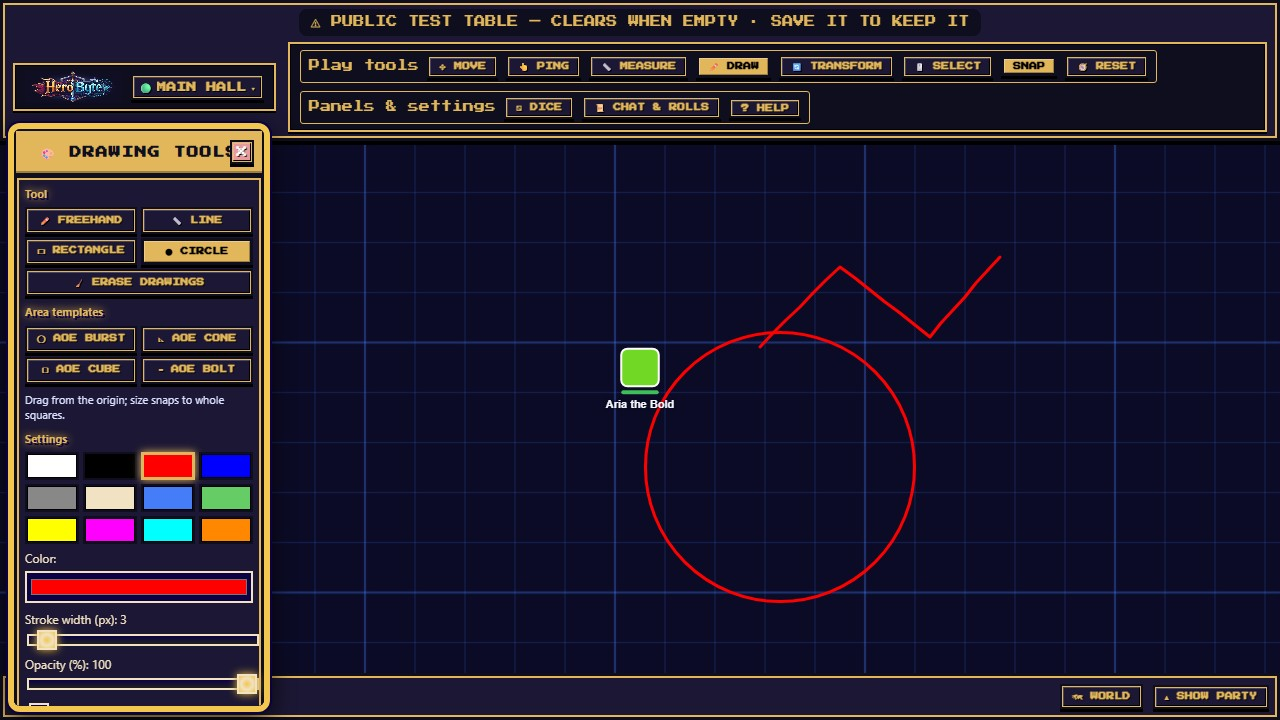
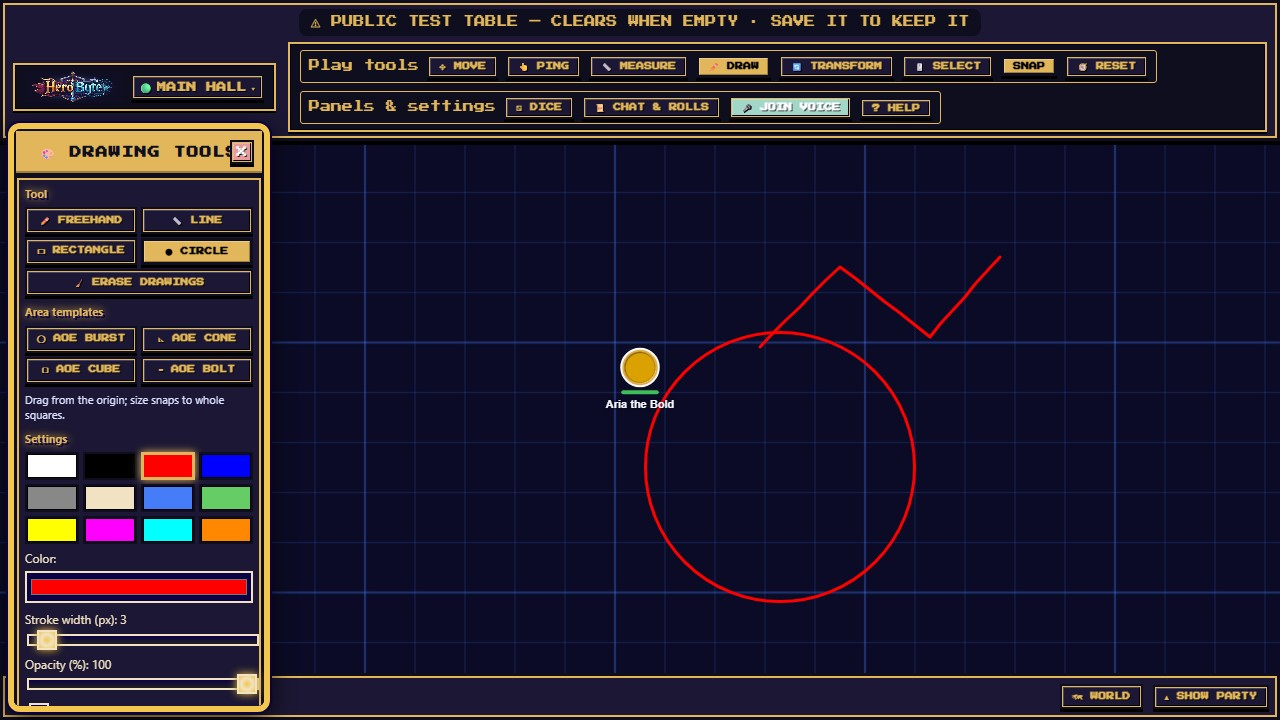
docs(frames): review round 1, what frames really do (C5a)
The guide said more than the code does in places: Grow out keeps the whole
picture only up to about Regular weight; only the plain rings take your
colour; a stretched token's frame turns oval; two rows happen at the
heaviest weights with grow in (planks and plates too, three at the top);
Gargantuan frames are a little over half as thick; Token frame… sits under
Token picture… and names the preset it was picked from; the window is "Art &
frame" and crops a framed token's picture round. The DM guide says an NPC's
frame needs a placed token, and that a restore leaves connected players'
tokens, frames included, as they are. The help's weight range is the
slider's. The player screenshots are re-shot: tokens now wear rings, and the
picture window has its Frame tab and button.

Changed region(s): [[0.5625, 0.1222, 0.75, 0.1833], [0.4688, 0.4889, 0.5312, 0.55]]

diff --git a/apps/client/src/features/help/characterHelpEntries.ts b/apps/client/src/features/help/characterHelpEntries.ts
@@ -37,5 +37,5 @@ export const PORTRAIT_ENTRY: HelpEntry = {
 export const TOKEN_FRAME_ENTRY: HelpEntry = {
   term: "Token frame",
   detail:
-    "⚙ → Token frame… picks the ring round your token on the map: Plain, Stone, Metal or Wood, its weight (Skinny to Slab), grow in or out, and your colour or one you pick; Use this frame sets it for everyone. New tokens start with a plain ring in your colour. On a phone it is in ⚙ EDIT.",
+    "⚙ → Token frame… picks the ring round your token on the map: Plain, Stone, Metal or Wood, its weight (a slider, with Skinny, Regular, Bold and Slab), grow in or out, and for the plain rings your colour or one you pick; Use this frame sets it for everyone. New tokens start with a plain ring in your colour. On a phone it is in ⚙ EDIT.",
 };

diff --git a/docs/user-guide/player-guide.md b/docs/user-guide/player-guide.md
@@ -58,23 +58,23 @@ One draggable window per character, in two halves — what the character is, and
 - **Character Name** and **Portrait**: the portrait is the picture on your card. Two ways to set it:
   - **⬆ UPLOAD IMAGE** sends a picture from your device to the table (camera roll on a phone): PNG, JPEG, GIF or WebP, up to 5 MB each. The table's image storage has a limit too ("The table's asset storage is full."), and on the Main Hall uploaded images are cleared once it has been empty for an hour.
   - **Paste a link** and press **Apply Portrait**. Links show only from **Imgur** (`i.imgur.com`) and **Discord** (`media.discordapp.net`); an `imgur.com` page or album link is turned into its image for you. A link from any other site shows nothing: download the picture and upload it instead.
-- **Token picture…** (once your character has a token on the map): the picture on your map token, separate from the portrait. It opens the token picture window (full screen on a phone, from **⚙ EDIT**):
+- **Token picture…** (once your character has a token on the map): the picture on your map token, separate from the portrait. It opens the **Art & frame** window on its **Picture** tab (full screen on a phone, from **⚙ EDIT**):
 
-  ![The token picture window: its zoom and backdrop controls, the previews on a dark map, a light map and fog, the offer to use the link as is, and Use this picture and Cancel at its foot](img/token-creator.jpg)
+  ![The Art & frame window on its Picture tab: its zoom and backdrop controls, round previews on a dark map, a light map and fog, the offer to use the link as is, and Use this picture and Cancel at its foot; beside it the settings window's Token picture and Token frame buttons](img/token-creator.jpg)
 
   - Bring a picture in: **⬆ Choose a file**, drop one on the window, paste one (**Ctrl+V**, **⌘V** on a Mac), or give a link and press **Load link**. Links work from **Imgur** (`i.imgur.com`) and **Discord** (`media.discordapp.net`), as for the portrait, and from pictures already on this HeroByte server; a link that loads nothing says so.
-  - Frame it inside the square, which is your token: drag to move it, zoom with the wheel, the **Zoom** slider or a pinch, and **⟳ Rotate** a quarter turn or **⇋ Flip** it. **Reset** puts it back. With the square selected, arrow keys nudge it and **+** / **−** zoom.
+  - Frame it inside your token's shape: a circle on a token that wears a frame (everything outside the circle is hidden on the map, and the frame covers its edge), the old rounded square on one that does not. Drag to move it, zoom with the wheel, the **Zoom** slider or a pinch, and **⟳ Rotate** a quarter turn or **⇋ Flip** it. **Reset** puts it back. With the picture selected, arrow keys nudge it and **+** / **−** zoom.
   - **Backdrop** fills whatever the picture leaves empty, such as transparent art or a picture zoomed out to fit: **Auto** takes the average colour of the solid pixels in the outermost ring, within a quarter of the way in, that has a real number of them (a photo's own edge, or for cut-out art the colour where the figure comes nearest the edge; dark parchment only when nothing solid is near the edge), or choose **Solid colour**, a **Gradient**, or **None** to keep it transparent.
   - The previews show the token on a dark map, a light map and under fog. **Use this picture** saves it to the table and sets it; **Cancel**, ✕ or **Esc** leave your token as it was, even while it is saving (once **Uploading…** has started, the picture still reaches the table's storage; if nothing uses it, it stops counting against the table's storage limit after about 15 minutes, for up to 5 MB of such pictures). While it saves, the framing holds still. The saved picture is a 512-pixel square (768 for a Huge or Gargantuan token at the time you save it), and it is an upload like any other: the table's storage limit applies, and on the Main Hall it is cleared with the other uploads. To change the framing later, choose the picture again.
   - For a picture that came from a link, **Use the link as is** sets the link itself (an `imgur.com` page link becomes its image link), unframed and with nothing saved to the table: the way out when the table's storage is full or the site (Discord, for one) does not let HeroByte copy its pictures. Editing the link field takes back an offer for a link that failed.
 
   **Clear picture** goes back to your token's colour: a disc inside its frame, or the old rounded square on a token with no frame.
-- **Token frame…** (beside **Token picture…**, once your character has a token): the ring drawn round your token on the map. Every new token starts with a **Plain ring** in your colour; tokens from before frames keep their old rounded square until you pick one. The button names the frame your token wears now. It opens the same window on its **Frame** tab (full screen on a phone, from **⚙ EDIT**):
-  - A shelf of frames by theme: **Plain** (plain ring, chamfered ring, shadow ring), **Stone** (red brick, castle stone, cave rubble, cracked stone, sandstone), **Metal** (blackened iron, riveted iron, rusted plate, steel, welded steel) and **Wood** (oak planks). Stones, planks and plates are built for your token's exact size, so they taper round the ring rather than being stretched, and every token on the table is lit by the same light from the top left, wherever it stands.
-  - **Weight**: a slider, or **Skinny**, **Regular**, **Bold** and **Slab**. A very thick stone frame lays its stones in two rows. Big tokens wear their frame a little thinner for their size.
-  - **Grow in** keeps the frame inside your token's square, eating into the picture's edge; **Grow out** keeps the whole picture and lets the frame stand outside the square (up to 15% of the token's width), casting a soft shadow on the map.
-  - **Your colour** tints frames that take a colour (the plain rings), and follows you when you change colour; or pick a colour of your own. Frames that glow (**Cracked stone**) add **Glow: your colour** or a glow colour, and **Glow strength**.
-  - The previews show the frame on a dark map, a light map and under fog, at card and token size. **Use this frame** sets it for everyone at the table; **No frame**, then **Use no frame**, takes it off; **Cancel**, ✕ or **Esc** change nothing. Changing the frame never touches your picture. A framed token is round: its selection outline follows the ring, and with **Grow out** you can grab it by the frame too.
+- **Token frame…** (under **Token picture…**, once your character has a token): the ring drawn round your token on the map. Every new token starts with a **Plain ring** in your colour; tokens from before frames keep their old rounded square until you pick one. The button names the frame your token's ring was picked from. It opens the same window on its **Frame** tab (full screen on a phone, from **⚙ EDIT**):
+  - A shelf of frames by theme: **Plain** (plain ring, chamfered ring, shadow ring), **Stone** (red brick, castle stone, cave rubble, cracked stone, sandstone), **Metal** (blackened iron, riveted iron, rusted plate, steel, welded steel) and **Wood** (oak planks). Stones, planks and plates are built for your token's size, so they taper round the ring, and every token on the table is lit by the same light from the top left, wherever it stands. Stretching a framed token in one direction with the transform handles stretches its frame into an oval too, and the oval turns with the token.
+  - **Weight**: a slider, or **Skinny**, **Regular**, **Bold** and **Slab**. At the heaviest weights with **Grow in**, stones, planks and plates are laid in two rows (three at the very top of the slider). Large and bigger tokens wear their frame thinner for their size (a Gargantuan's at a little over half).
+  - **Grow in** keeps the frame inside your token's square, eating into the picture's edge; **Grow out** lets the frame stand outside the square, up to 15% of the token's width on each side, casting a soft shadow on the map: up to about **Regular** weight it keeps the whole picture, and a heavier frame also reaches in over the picture's edge.
+  - **Your colour** tints the frames that take a colour (**Plain ring** and **Chamfered ring**), and follows you when you change colour; or pick a colour of your own. Every other frame has its own colours, and the tab says so instead. A frame that glows (**Cracked stone**) adds **Glow: your colour** (your character's colour, whatever colour the frame has) or a glow colour of your own, and **Glow strength**.
+  - The previews show the frame on a dark map, a light map and under fog, at card and token size. **Use this frame** sets it for everyone at the table; **No frame**, then **Use no frame**, takes it off; **Cancel**, ✕ or **Esc** change nothing. Changing the frame never touches your picture. A framed token is round unless you stretch it: its selection outline follows the ring, and with **Grow out** you can grab it by the frame too. Pasting or dropping a picture while the **Frame** tab is showing turns to the **Picture** tab.
 - **Colour** — your character's colour: it fills your token when it has no picture and tints its frame when the frame takes your colour; on a computer it colours your name on your card, your card's portrait while it has none, the ring on your Party row and your speaking glow; and it colours your pings, your chat and roll names and, on your own screen, everything you select. Where your colour would not read, names, ping labels and the glow use a lighter or darker shade of it. With two characters, pings, chat and roll names and selections use your first character's colour; each character's card and Party row keep its own. Others still see your colour on your card, your Party row and your chat and roll names while your token is out of their sight; a ping reaches other players only where they can see the spot (the DM sees every ping). Drag the handle across the colour window (hue runs left to right, light at the top) and let go to keep it, or tap one of the three dashed rings for a free colour in one go. **No two players share a colour** (a player's pick is checked whenever it changes; the DM's picks and table restores are not): the striped patches are the space around other players' colours, a drag or a tap into one stops at its nearest free edge and says whose it is (hover over a patch to see whose without picking), and the patches shrink as more players join. Your own other characters show as small squares and may share your colour; a new character starts in your colour. Arrow keys move the handle a step (**Shift** for five) and the colour is kept when you stop. If someone took the colour a moment before you, the table moves yours to the nearest free one and tells you. The DM's colour has no patches and blocks no one. On a phone it is in the row's **⚙ EDIT** sheet.
 - **Status Effects** — a checklist of 38 conditions (Prone, Poisoned, Blessed, Rage, Concentration…). They belong to this character only: your other character's row, card and token do not wear them. Up to three show as emoji medallions on the portrait and token; the rest roll up into a `+N` bubble.
 - **Initiative Status** — this character's current initiative, with a **🧹 CLEAR INITIATIVE** reset (on a phone too: **⚙ EDIT** on your row).

diff --git a/docs/user-guide/dm-guide.md b/docs/user-guide/dm-guide.md
@@ -61,7 +61,7 @@ To edit the table's map, use **🏗 Build map** in the header. If you have a 
   view — so reset the view or drag it across from there. Pressing it again replaces the old token with a fresh
   one at the corner (its position, size and sight radius reset; not while its token is locked — Place is off, or refused if the lock is on a map you travelled from, until you unlock it) rather than adding a second one.
 - **⚔ ENCOUNTER** opens [Encounter](#encounter), where initiative and the fight itself live (rolling the NPCs' missing initiative moved there).
-- NPCs appear in the Party as rows wearing their **Stance** — **Enemy**, **Neutral** or **Ally** (see [The Library](#the-library-monsters-and-townsfolk) below) — with HP, conditions and, once its token is placed, **🎯**; a hidden one reads **Hidden** on your screen. Select an NPC's row for its card: the **👁 eye button** there toggles whether players can see it at all — prep an ambush hidden, reveal it on the pounce. (Hidden NPCs stay visible to you.) Its **⚙** window has the same two halves as a player's: **Character** (portrait, **Token picture…** — the same picture window players use, its result kept on the NPC so later edits keep it — **Token frame…**, **Status Effects**, initiative, **Delete NPC**) and **Token settings** (place, size, lock). Conditions you set there show on the NPC's row, card and token for everyone who can see it. NPC tokens take frames too: a placed NPC starts with a **Plain ring** in its token's colour, **Token frame…** in its ⚙ window opens the same Frame tab players use (see the player guide's settings window), and placing it again keeps the frame you gave it.
+- NPCs appear in the Party as rows wearing their **Stance** — **Enemy**, **Neutral** or **Ally** (see [The Library](#the-library-monsters-and-townsfolk) below) — with HP, conditions and, once its token is placed, **🎯**; a hidden one reads **Hidden** on your screen. Select an NPC's row for its card: the **👁 eye button** there toggles whether players can see it at all — prep an ambush hidden, reveal it on the pounce. (Hidden NPCs stay visible to you.) Its **⚙** window has the same two halves as a player's: **Character** (portrait, **Token picture…** — the same picture window players use, its result kept on the NPC so later edits keep it — **Token frame…** (once its token is placed), **Status Effects**, initiative, **Delete NPC**) and **Token settings** (place, size, lock). Conditions you set there show on the NPC's row, card and token for everyone who can see it. NPC tokens take frames too: a placed NPC starts with a **Plain ring** in its token's colour, **Token frame…** in its ⚙ window opens the same Frame tab players use (see the player guide's settings window), and placing it again keeps the frame its token wore, stones and all, while that token is still on one of your maps.
 - **DELETE** removes the NPC and its token.
 
 ### Adding a pack at once
@@ -170,7 +170,7 @@ A backup is a file you keep. Three kinds exist and each picker names what it is 
 
 **Download table backup** downloads the entire table as one JSON file — tokens, characters (PCs _and_ NPCs), props, drawings, dice history, grid, fog state, the full live map with every terrain cell and door, and any uploaded images (inlined, up to 64 MB). The **Backup file name** field just names the file. Private dice rolls (**DM** or **ME**) and whispers are left out on purpose, so a backup never carries anyone's private messages — but it still holds secret doors, hidden NPCs and GM notes, so keep it to yourself.
 
-**Restore table backup…** restores one. Hand it an editable map or a character file and it is refused straight away, by name, with nothing loaded and no confirmation: the message says where that file belongs (a map goes to **Import editable map (.json)** under Maps → Map library, a character to **Load character…** in its ⚙ settings). Most files that are none of the three are refused as *not a table backup*, with a pointer to **Download table backup**; a file that looks half like a backup (it has a `snapshot`, `tokens` or `players`) still names the first part that is wrong. For a real backup, read the confirmation carefully: restoring **replaces the table for everyone connected**: the map, the NPCs, props, drawings and settings become the file's (a monster that is in both the table and the file stays where it stands now; one the file lacks goes, token and all). Everyone with a seat on the table's roster keeps their own characters and tokens as they are now, whether or not they are connected at the moment (a character of theirs that the file has and the table no longer does comes back), and nobody's DM status changes — who is the DM stays with the DM password, whatever the file says. What does come back as the file had it is each seat's own record: its name, portrait, HP and conditions. A table holds 500 characters: if the file's characters and the seated players' own would pass that together, the restore is refused whole and a message says how many characters the table would hold against the 500 (remove some absent players, or delete some of their characters, and try again). The restore's own message only ever says the backup was **sent**: a refusal arrives a moment later and says the table has not been changed.
+**Restore table backup…** restores one. Token frames come back exactly as saved, except on the tokens of players still connected: they keep their token as it is now, frame included. Hand it an editable map or a character file and it is refused straight away, by name, with nothing loaded and no confirmation: the message says where that file belongs (a map goes to **Import editable map (.json)** under Maps → Map library, a character to **Load character…** in its ⚙ settings). Most files that are none of the three are refused as *not a table backup*, with a pointer to **Download table backup**; a file that looks half like a backup (it has a `snapshot`, `tokens` or `players`) still names the first part that is wrong. For a real backup, read the confirmation carefully: restoring **replaces the table for everyone connected**: the map, the NPCs, props, drawings and settings become the file's (a monster that is in both the table and the file stays where it stands now; one the file lacks goes, token and all). Everyone with a seat on the table's roster keeps their own characters and tokens as they are now, whether or not they are connected at the moment (a character of theirs that the file has and the table no longer does comes back), and nobody's DM status changes — who is the DM stays with the DM password, whatever the file says. What does come back as the file had it is each seat's own record: its name, portrait, HP and conditions. A table holds 500 characters: if the file's characters and the seated players' own would pass that together, the restore is refused whole and a message says how many characters the table would hold against the 500 (remove some absent players, or delete some of their characters, and try again). The restore's own message only ever says the backup was **sent**: a refusal arrives a moment later and says the table has not been changed.
 
 **How big can a campaign get?** A backup has to restore in one message, and the server accepts 1 MB per message. So a table holds at most 64 maps, and everything that mints a map — **＋ Create map in library**, **Import editable map (.json)**, a generated dungeon or building, a kicked-in door — is weighed first (an import is identified before it is weighed, so a file of the wrong kind is named rather than measured): a mint that would push the campaign's export past 0.75 MB is refused, and the refusal tells you both numbers. The weigh counts the new map's own bytes and the scene it installs when the party stands on it (its compiled walls, terrain and scenery) in place of the scene they are leaving, so a mint can be refused up to about 0.45 MB before the campaign reaches 0.75 MB — less for a smaller map, or when the party is already on a large one. The line beside the map list reads **Nearly full** from about 0.30 MB for that reason. A generated map costs its own bytes plus that scene: a `large` warehouse is about 460 KB all in, a `large` tavern about 200 KB, a `large` shop or house about 135 KB, a `large` high-density dungeon about 280 KB. So a fresh campaign holds two large warehouses, five large taverns (four to six by the roll), seven or eight large shops or houses, or three high-density large dungeons; medium maps: four or five warehouses, nine or ten taverns, ten or eleven shops or houses, twelve dungeons. The line beside the map list says where you are — **Room for more maps**, **Nearly full**, **Full** or **Too big to restore** — and its tooltip holds the exact size against the 0.75 MB ceiling. Delete a map you are done with to make room. **Download table backup** says two sizes: what the table weighs on the wire (what a restore sends — the images are saved too but not counted) and what the file takes on disk. A backup that would not restore is not saved at all. Play can carry a table past what a restore takes: more than 100 seats, 1,000 tokens, 5,000 drawings, or 5,000 objects on the map (tokens, drawings and props, plus the map and its staging zone); a scene waiting on another map past those same limits; or about 1 MB in all. Then no file is downloaded, and the message says what is over and by how much (or, for the size, which parts are heaviest) and how to clear it: remove absent players (**DM Menu → Table → Players at this table**), delete tokens or NPCs you no longer need, erase drawings (**Clear All Drawings** under Maps removes every unlocked one), replace a pasted map background with **⬆ Upload image** (Maps → Current table map; a pasted image is stored twice), open a waiting map with **Use at table** (the whole party moves there) and clear it, or delete a map — so you can clear it and download again.
 
